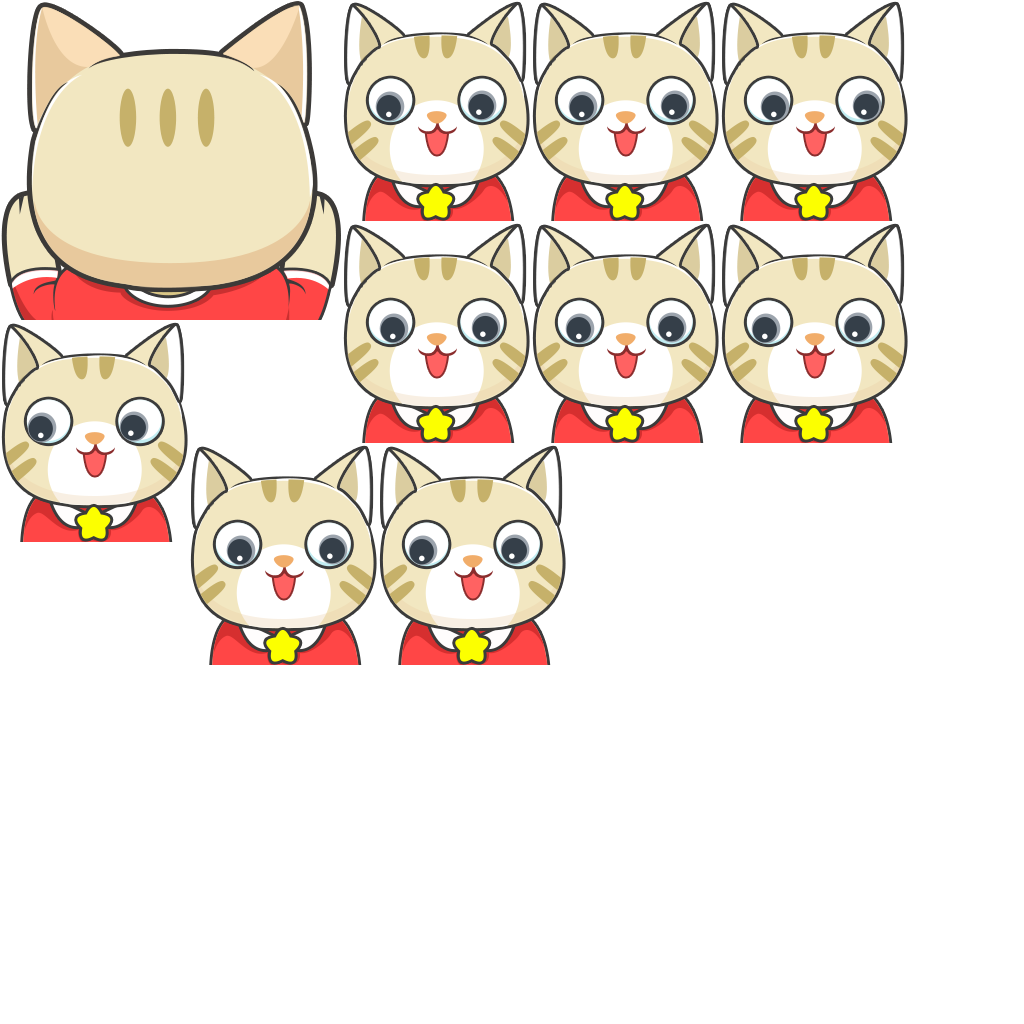
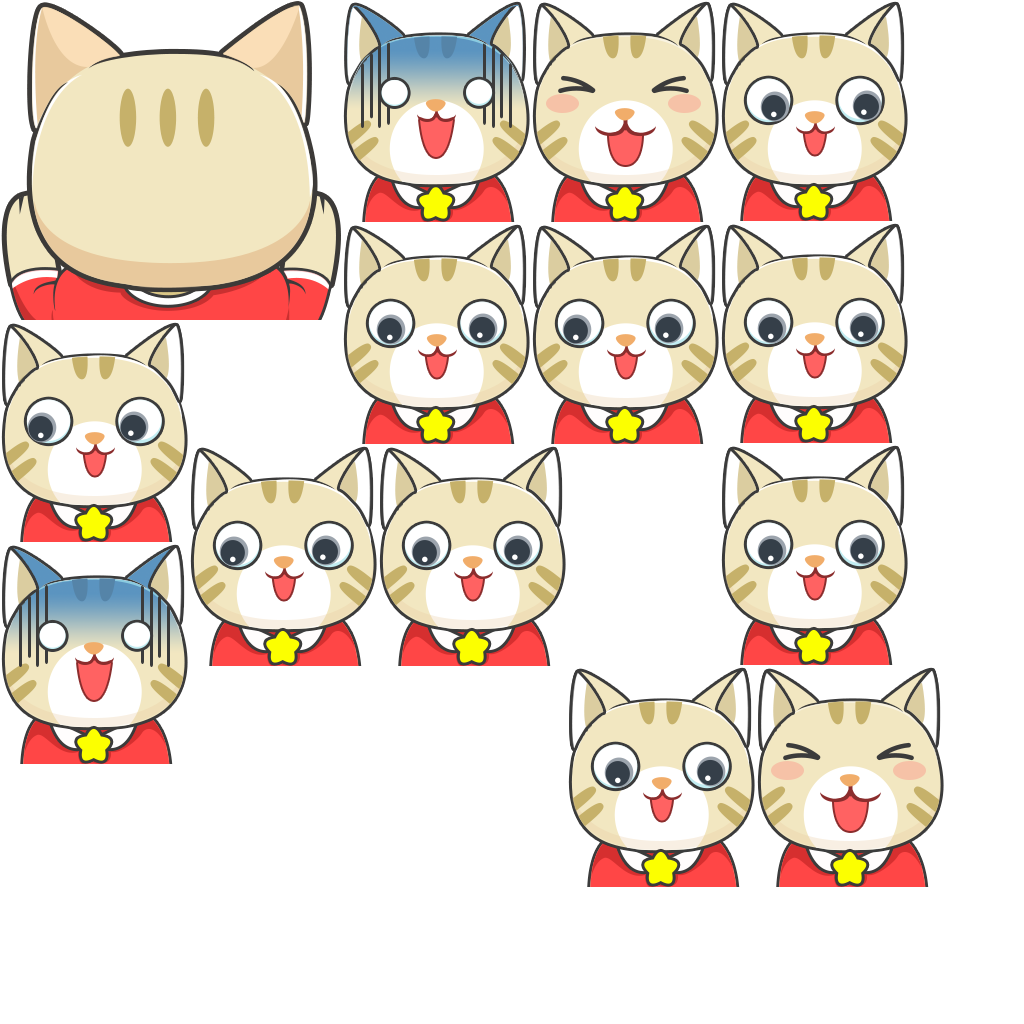
完成基本的guess

diff --git a/client/src/game.ts b/client/src/game.ts
@@ -10,6 +10,20 @@ namespace Client {
         hand: Hand;
         tip: Tip;
 
+        isCorrect :boolean;
+
+
+        private _mouseImg : egret.Bitmap;
+        public get mouseImg() : egret.Bitmap {
+            if(!this._mouseImg){
+                this._mouseImg = new egret.Bitmap(this.sh.getTexture('mouse_png'));
+                this.stage.addChild(this._mouseImg);
+            }
+                
+            return this._mouseImg;
+        }
+       
+
         private so: SocketIOClient.Socket;
 
         // 游戏状态机
@@ -38,6 +52,9 @@ namespace Client {
                    
                     // 超时没有放置mouse,就会随机在一个cup中放置mouse
                     this.currHub.runTimer(CONFIG.PUT_MOUSE_DURATION, () => {
+                        if(GameStatus.beforePutMouse!=this.status){
+                            return;
+                        }
                         if (UserStatus.beforePutMouse == this.roller.status) {
                             let cupIndex = Math.floor(Math.random() * this.cupList.length);
                             this.reqPutMouse(this.cupList[cupIndex].index);
@@ -63,13 +80,6 @@ namespace Client {
                 this.roller.status = UserStatus.beforeRolling;
                 this.guesser.status = UserStatus.watching;
 
-                // this.stage.touchEnabled = true;
-                // console.log(this.stage.touchEnabled+'0000');
-                window['s1'] = this.stage;
-                this.stage.addEventListener(egret.TouchEvent.TOUCH_BEGIN,()=>{
-                    console.log('123');
-                },null);
-
                 // 提示
                 if (this.roller == this.currUser) {
                     this.tip.showMsg(CONFIG.ROLL_TIP, CONFIG.ROLL_TIP_DURATION, () => { });
@@ -93,20 +103,29 @@ namespace Client {
                 this.guesser.status = UserStatus.afterWatching;
 
 
-                this.cupList.forEach(cu => {
-                    cu.cupSp.touchEnabled = true;
-                    cu.cupSp.addEventListener(egret.TouchEvent.TOUCH_BEGIN, (event: egret.TouchEvent) => {
-                        if (Role.guesser != this.currUser.role) {
-                            return;
-                        }
+                 if(Role.guesser == this.currUser.role){
+                    this.tip.showMsg(CONFIG.GUESS_MOUSE_TIP,CONFIG.GUESS_MOUSE_TIP_DURATION,()=>{});
+                     
+                 }
 
-                        this.guessMouse(cu.index);
-                        this.reqGuess(cu.index);
-                    }, this);
-                });
-
-                // this.tip.showMsg()
             };
+
+            // ********************************************************************************************************************************************
+            // afterGuess
+            // ********************************************************************************************************************************************
+            dict[GameStatus.afterGuess] =()=>{
+                console.log('afterGuess');
+                
+                // 计算currUser的猜测结果
+                let isCorrect  = this.isCorrect;
+                let currRst = Role.guesser == this.currUser.role?isCorrect:!isCorrect;
+
+                this.currUser.isRoundWin = currRst;
+                this.currUser.status = UserStatus.afterGuess;    
+
+               
+            };
+
 
 
             dict[v]();
@@ -180,6 +199,7 @@ namespace Client {
                 let sp = cu.cupSp;
                 sp.touchEnabled = true;
 
+                // putMouse
                 binder.watch({
                     beWatched: sp,
                     eventname: egret.TouchEvent.TOUCH_BEGIN,
@@ -188,10 +208,27 @@ namespace Client {
                             return;
                         }
                         this.reqPutMouse(cu.index);
+                        // this.status = GameStatus.beforeRolling
                     },
                     context: this,
                     onStatus: GameStatus[GameStatus.beforePutMouse],
                     offStatus: Binder.OTHER_STATUS
+                });
+
+                // guessMouse
+                binder.watch({
+                    beWatched:sp,
+                    eventname:egret.TouchEvent.TOUCH_BEGIN,
+                    handler:(e:egret.TouchEvent)=>{
+                        if (Role.guesser != this.currUser.role) {
+                            return;
+                        }
+                        this.reqGuess(cu.index);
+                        // this.status = GameStatus.afterGuess;
+                    },
+                    context:this,
+                    onStatus:GameStatus[GameStatus.afterRolling],
+                    offStatus:Binder.OTHER_STATUS
                 });
 
             });
@@ -200,7 +237,6 @@ namespace Client {
             // 点击某个杯子,显示出HALO
             // 开始roll
             binder.watch({
-                beWatchType: Binder.BEWATCHED_TYPE.stage,
                 beWatched: this.stage,
                 eventname: egret.TouchEvent.TOUCH_BEGIN,
                 handler: (e: egret.TouchEvent) => {
@@ -234,7 +270,6 @@ namespace Client {
 
             // 点击某个cup,进入ROLLING状态
             binder.watch({
-                beWatchType: Binder.BEWATCHED_TYPE.stage,
                 beWatched: this.stage,
                 eventname: egret.TouchEvent.TOUCH_MOVE,
                 handler: (e: egret.TouchEvent) => {
@@ -259,7 +294,6 @@ namespace Client {
 
             // roll结束
             binder.watch({
-                beWatchType: Binder.BEWATCHED_TYPE.stage,
                 beWatched: this.stage,
                 eventname: egret.TouchEvent.TOUCH_END,
                 handler: (e: egret.TouchEvent) => {
@@ -281,6 +315,7 @@ namespace Client {
 
             // 绑定putmouse
             so.on('onputMouse', (data: { flag: boolean, cupIndex: number }) => {
+                console.log('putmouse+++++++');
                 let {flag, cupIndex} = data;
                 if (flag) {
                     this.putMouse(this.cupList[cupIndex]);
@@ -313,13 +348,14 @@ namespace Client {
             });
 
             so.on('onguess', (data: { cupIndex: number, isCorrect: boolean }) => {
+                let {cupIndex,isCorrect} = data;
+                this.isCorrect = isCorrect;
+                this.guessMouse(cupIndex, isCorrect, () => {
+                    this.status = GameStatus.afterGuess;
+                });
+            });
 
-                if (Role.roller == this.currUser.role) {
-                    this.guessMouse(data.cupIndex);
-                }
-
-
-                // 显示对错
+            so.on('onround',(data)=>{
 
             });
         }
@@ -367,7 +403,7 @@ namespace Client {
             }
             // ani
             let height = 300;
-            let mouseImg = new egret.Bitmap(this.sh.getTexture('mouse_png'));
+            let mouseImg = this.mouseImg;
             let posi = {
                 x: cup.cupSp.x + cup.cupSp.width / 2 - mouseImg.width / 2,
                 y: cup.cupSp.y + cup.cupSp.height / 2 - mouseImg.height / 2 - height
@@ -376,11 +412,10 @@ namespace Client {
             mouseImg.y = posi.y;
             mouseImg.alpha = 1;
             cup.putMouse();
-            this.stage.addChild(mouseImg);
             egret.Tween.get(mouseImg)
                 .to({ y: posi.y + height, alpha: .3 }, 800)
                 .call(() => {
-                    this.stage.removeChild(mouseImg);
+                    this.mouseImg.alpha = 0;
                     cup.showMouse();
                     if (Role.guesser == this.currUser.role) {
                         cup.fadeoutMouse();
@@ -392,14 +427,41 @@ namespace Client {
 
         }
 
-        guessMouse(cupIndex: number) {
+        // 猜老鼠在哪个cup
+        guessMouse(cupIndex: number,isCorrect:boolean,next:()=>void) {
             let hand = this.hand;
-            hand.toggle(true);
+            hand.toggle(false);
 
             let cu = _.find(this.cupList, cu => cu.index == cupIndex);
             let sp = cu.cupSp;
+            let center = {
+                x: sp.x + sp.width/2,
+                y:sp.y+sp.height/2
+            };
             hand.sp.x = sp.x + sp.width / 2;
             hand.sp.y = sp.y + sp.height / 2;
+
+            console.trace('mouse++')
+            egret.Tween.get(sp)
+            .to({y:sp.y-200,alpha:0},400)
+            .call(()=>{
+                hand.toggle(false);
+            })
+            .call(()=>{
+                if(isCorrect){
+                    let mouseImg = this.mouseImg;
+                    mouseImg.x = center.x-mouseImg.width/2;
+                    mouseImg.y = center.y - mouseImg.height/2;
+                    mouseImg.alpha = 0.1;
+                    mouseImg.scaleX = mouseImg.scaleY = .3;
+
+                    egret.Tween.get(mouseImg)
+                    .to({alpha:1,scaleX:1,scaleY:1},600,egret.Ease.backInOut)
+                    .call(()=>this.addScore(isCorrect,next));
+                }else{
+                    this.addScore(isCorrect,next);
+                }
+            });
         }
 
         private getCupByPosi(posi: { x: number, y: number }): Cup {
@@ -495,7 +557,7 @@ namespace Client {
 
 
         // isWin是站在guess的角度
-        addScore(isWin: boolean) {
+        addScore(isWin: boolean,next?:()=>void) {
             this.hubList.forEach(hu => {
                 if (Role.guesser == hu.user.role) {
                     hu.user.scoreList.push(isWin);
@@ -505,6 +567,8 @@ namespace Client {
                     hu.addScore(!isWin);
                 }
             });
+
+            next && next();
         }
 
         private mockPutMouse() {

diff --git a/client/src/user.ts b/client/src/user.ts
@@ -8,6 +8,9 @@ namespace Client {
         animal: Animal;
         // status:UserStatus;
 
+        // 记录本回合是不是胜利
+        isRoundWin: boolean = false;
+
         private _status: UserStatus;
         public get status(): UserStatus {
             return this._status;
@@ -28,11 +31,7 @@ namespace Client {
             let index = 1;
             let sh: egret.SpriteSheet;
 
-            let ti = this.faceAniTimer = this.faceAniTimer || new egret.Timer(300, 0);
-            ti.addEventListener(egret.TimerEvent.TIMER, () => {
-                this.frontFace.texture = sh.getTexture(`0${index + 1}_png`);
-                index = (index + 1) % count
-            }, this);
+           
 
             if (this.animal == Animal.cat) {
                 sh = RES.getRes('cat_png');
@@ -41,10 +40,25 @@ namespace Client {
                 sh = RES.getRes('dog_png');
             }
             if (v == UserStatus.watching) {
-                ti.reset();
-                ti.start();
+                let count = 8;
+                let list = [];
+                let delay =300;
+                for (var i = 0; i < count; i++) {
+                    list.push(sh.getTexture(`0${index + 1}_png`));
+                }
+                this.runFaceAni(list,delay);
+              
             } else if (v == UserStatus.afterWatching) {
-                ti.reset();
+                
+            } else if (v == UserStatus.afterGuess||v == UserStatus.afterRolling) {
+                let aniPre = this.animal == Animal.dog ? 'd' : 'c';
+                let winPre = this.isRoundWin ? 'r' : 'w';
+                let delay = 200;
+                let list = [
+                    sh.getTexture(`${aniPre}_${winPre}_01.png`),
+                    sh.getTexture(`${aniPre}_${winPre}_02.png`)
+                ];
+                this.runFaceAni(list,delay);
             }
 
         }
@@ -52,6 +66,23 @@ namespace Client {
         private frontFace: egret.Bitmap;
         private backFace: egret.Bitmap;
         private faceAniTimer: egret.Timer;
+
+        private runFaceAni(textureList: egret.Texture[], delay: number) {
+            if(this.faceAniTimer && this.faceAniTimer.running){
+                this.faceAniTimer.stop();
+                this.faceAniTimer = null;
+            }
+            let ti = this.faceAniTimer =  new egret.Timer(delay, 0);
+            let index = 0;
+            let len = textureList.length;
+            ti.addEventListener(egret.TimerEvent.TIMER,()=>{
+                this.face.texture = textureList[index];
+                index = (index+1)%len;
+            },null);
+
+
+
+        }
 
         isFront: boolean;
 

diff --git a/client/src/config.ts b/client/src/config.ts
@@ -3,15 +3,16 @@ namespace Client {
         SOCKET_URI:'http://localhost:3000',
 
         PUT_MOUSE_DURATION:4,
-        ROLL_DURATION: 8,
+        ROLL_DURATION: 4,
 
         PUT_MOUSE_TIP:'请把老鼠放入一个杯子里',
         PUT_MOUSE_TIP_DURATION:2000,
 
         ROLL_TIP:'请把老鼠放入一个杯子里',
-        ROLL_TIP_DURATION:2000
+        ROLL_TIP_DURATION:2000,
 
-
+        GUESS_MOUSE_TIP:'点击杯子,来猜猜老鼠在哪里',
+        GUESS_MOUSE_TIP_DURATION:2000,
     }
 
 }

diff --git a/client/src/binder.ts b/client/src/binder.ts
@@ -1,6 +1,6 @@
 namespace Client {
     type watchParam = {
-        isBind: boolean
+        isBind?: boolean
         beWatched: egret.DisplayObject
         eventname: string
         handler: Function
